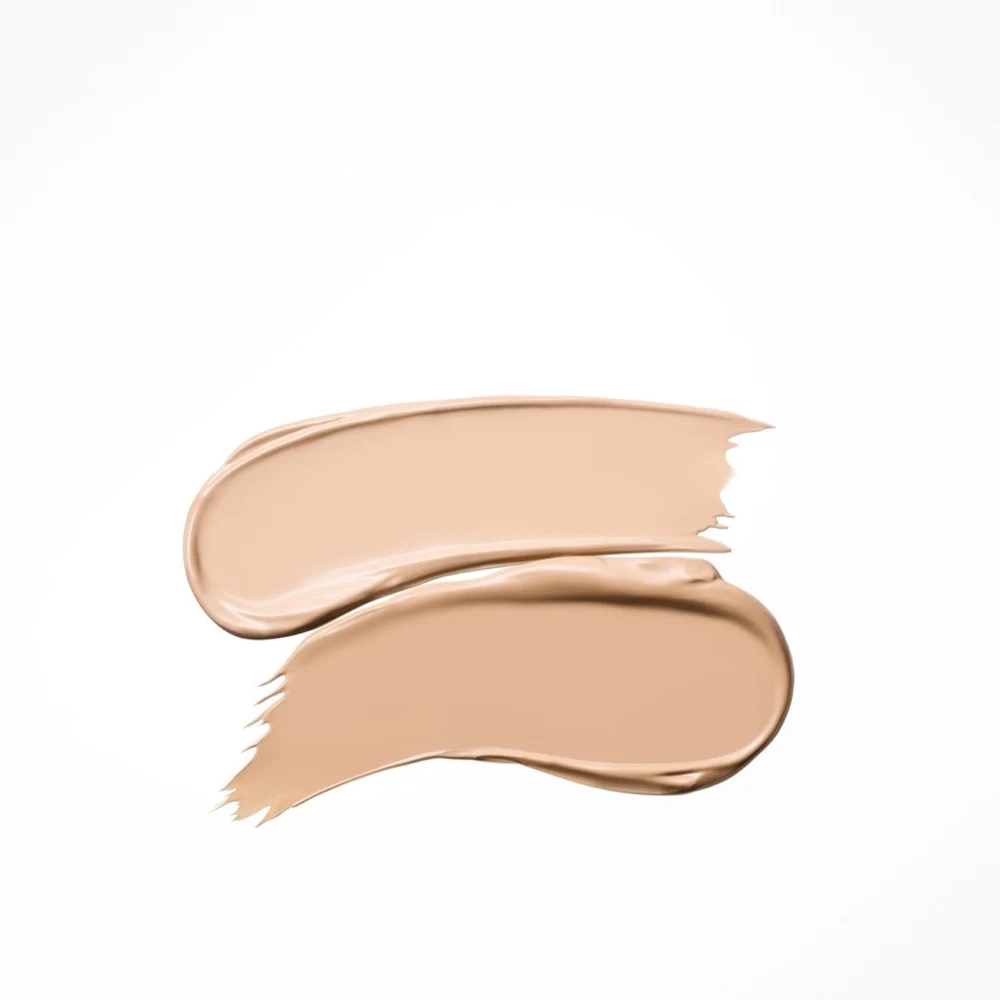
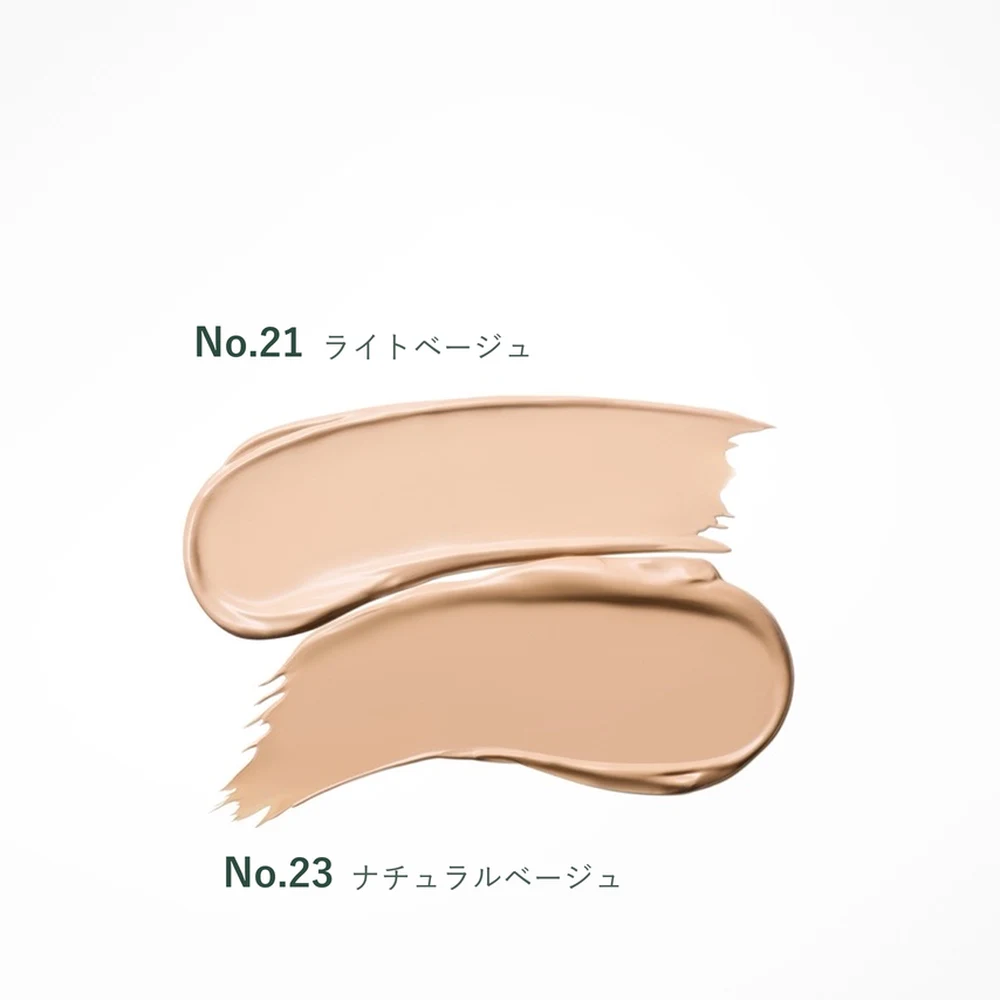
改善: クッションファンデの色見本に色番号を入れた画像に差し替え、altに上下の対応を追記

diff --git a/products/glow-air-fit-mesh-cushion.html b/products/glow-air-fit-mesh-cushion.html
@@ -327,7 +327,7 @@
       <h2>カラー展開</h2>
       <p><strong>No.21（ライトベージュ）</strong>と<strong>No.23（ナチュラルベージュ）</strong>の2色展開です。</p>
       <div class="shade-img">
-        <img src="../images/product-glowcushion-swatch.webp" alt="グロー エアフィット メッシュクッションのカラースウォッチ" loading="lazy" />
+        <img src="../images/product-glowcushion-swatch.webp" alt="グロー エアフィット メッシュクッションのカラースウォッチ（上：No.21 ライトベージュ、下：No.23 ナチュラルベージュ）" loading="lazy" />
       </div>
       <p style="font-size:.8rem;color:var(--text-light);text-align:center">No.21はライトベージュ、No.23はナチュラルベージュです</p>
     </section>
